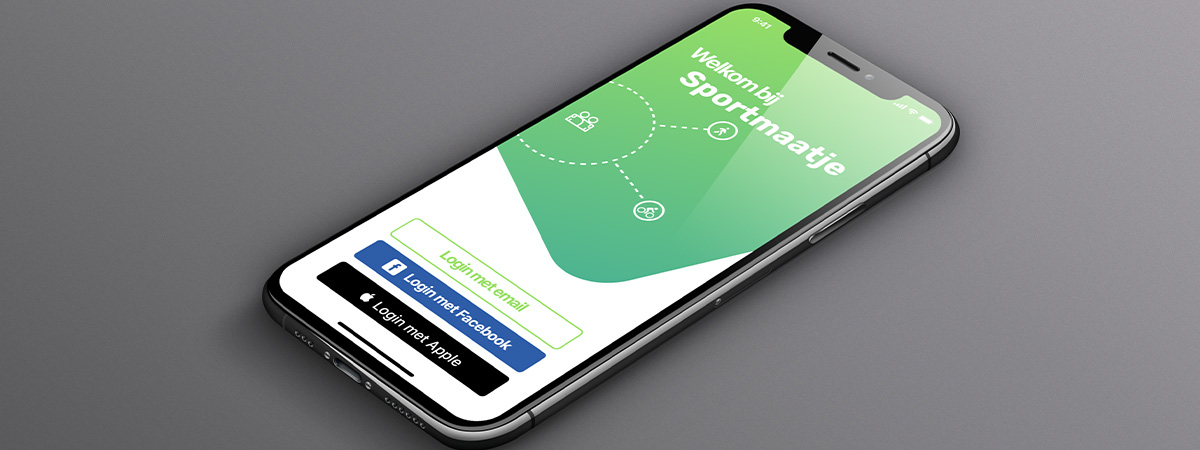
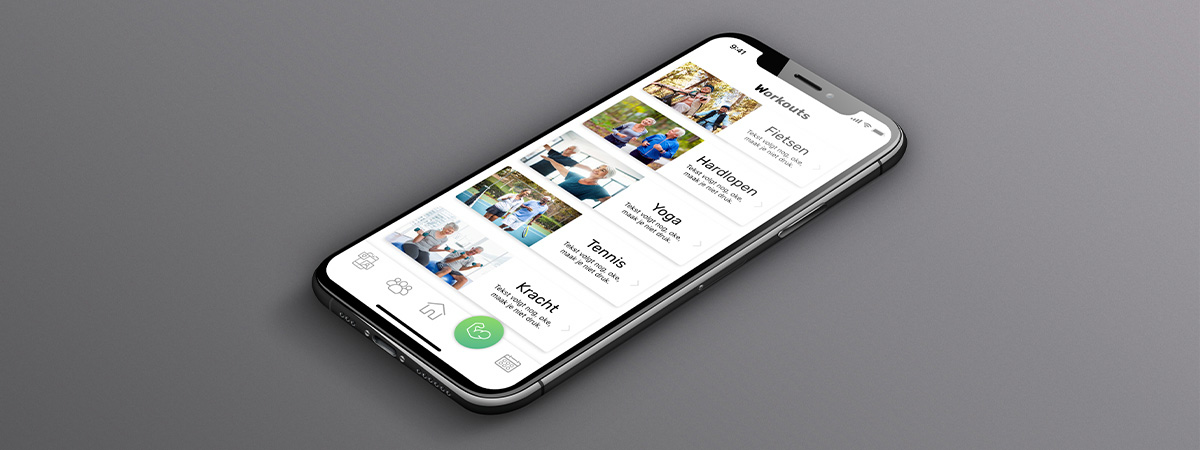
new text and images for sportmaatje case

Changed region(s): [[0.185, 0.0, 0.8325, 1.0]]

diff --git a/resources/views/website/project/projects/sportmaatje.blade.php b/resources/views/website/project/projects/sportmaatje.blade.php
@@ -33,7 +33,7 @@
                 </div>
                 <div class="grid content">
                     <div class="col-offset-1 col-3">
-                        <p>Sportmaatje is een app speciaal voor eenzame ouderen tussen de leeftijd 55 en 65 jaar oud. De app moet ouderen stimuleren om een maatje te vinden en vervolgens met de maatje af te spreken om te gaan sportenx</p>
+                        <p>Sportmaatje is een app speciaal voor eenzame ouderen tussen de leeftijd 55 en 65 jaar oud. De app moet ouderen stimuleren om een maatje te vinden en vervolgens met de maatje af te spreken om te gaan sporten.</p>
                         <a href="https://xd.adobe.com/view/637c77ce-6377-4cad-5b3b-3fb5003b6987-154d/" target="_blank">Link naar Adobe XD</a>
                     </div>
                     <div class="col-offset-1 col-1">
@@ -81,9 +81,9 @@
                             <div class="title">Meer informatie</div>
                         </div>
                         <div class="body">
-                            <p>Sportmaatje is een app voor ouderen, zowel man als vrouw, tussen de leeftijd 55 en 65 jaar oud die eenzaam zijn. De app is een middel om de drempel om sociale contacten met andere te verlagen.</p>
-                            <p>De gebruiker maakt gemakkelijk een account in de Sportmaatjes app en heeft direct toegang tot vele functies. Zo kan de gebruiker maatjes vinden op basis van gedeelde interesses en deelnemen aan groepsevenementen om nieuwe maatjes en workouts te ontdekken. Ook kan de gebruiker gemakkelijk een workout inplannen met een maatje. Om de sociale contacten met dat maatje te behouden kan de gebruiker gebruik maken van de herhaal functie waarin de twee maatjes dezelfde workout nog een keer inplannen op een later moment. Wanneer de gebruiker klaar is met sporten kunnen ze de app nog steeds gebruiken voor de socials sectie waarin ze inspiratie op kunnen doen over bijvoorbeeld een gezonder levensstijl.</p>
-                            <p>Mijn teamgenoten en ik hebben deze prototype kunnen maken door veel te onderzoeken en veel te testen bij ons doelgroep.</p>
+                            <p>Samen met mijn projectgroepje hebben wij onder leiding van Online Departement en Hogeschool Rotterdam het idee Sportmaatje uitgewerkt. Sportmaatje is tijdens een voorgaand project bedacht. Tijdens dit project hebben wij het idee opgepakt en uitgewerkt tot een concept. </p>
+                            <p>Mijn rol binnen het team was Teamcaptain. Voor mij is een teamcaptain iemand die het overzicht en zijn hoofd koel moet blijven houden. Een teamcaptain heeft niet meer te zeggen dan de rest van het team.  Sportmaatje is een app voor ouderen, zowel man als vrouw, tussen de leeftijd 55 en 65 jaar oud die eenzaam zijn. De app is een middel om de drempel om sociale contacten met andere eenzame ouderen te verlagen. Door de verschillende functies van de app kunnen gebruikers nieuwe workouts ontdekken en nieuwe sportmaatjes leren kennen.</p>
+                            <p>Ter voorbereiding van het concept zijn mijn team en ik eerst aan de slag gegaan met een kort onderzoek. Dit onderzoek bestond uit het afnemen van interviews bij de doelgroep om het onderzoek van het voorgaande project te kunnen bevestigen. Daarna zijn wij aan de slag gegaan met wireframes maken. Voor het structureren van de navigatie hebben wij de Cardsorting methode toegepast samen met de doelgroep. Wij hebben een goed beeld gekregen van een ideale Wireframe doordat wij deze veel hebben getoond aan de doelgroep. Vervolgens zijn we verder gemaakt met het ontwikkelen van een prototype. Hiervoor hebben wij in totaal vier iteraties doorlopen. De testen varieerde van AB-testen tot instructies laten uitvoeren. Tot slot moesten wij een videopresentatie maken en deze aan alle CMD-studenten en docenten tonen.</p>
                         </div>
                     </li>
                     <li>
